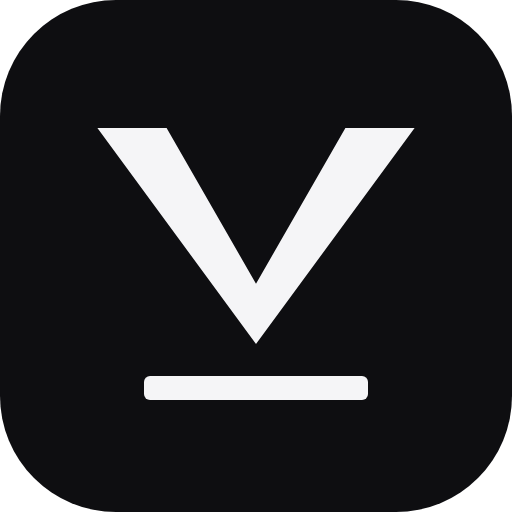
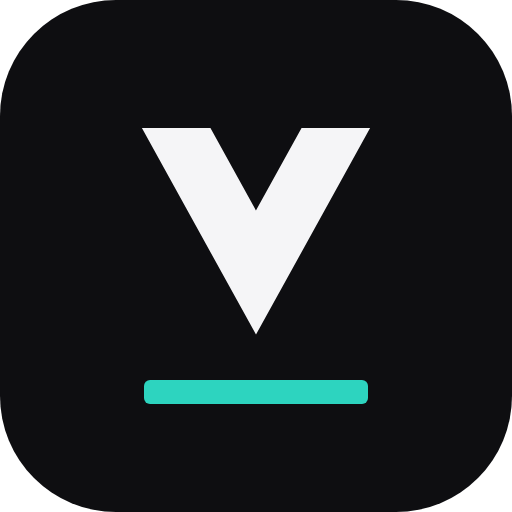
chore(app): 브랜드 심볼 V를 평행 획으로 고치고 두 색 구성으로 복원
V의 안팎 변이 평행하도록 폴리라인 마이터 스트로크 방식으로 다시 그리고,
기준선에 민트 강조색을 되살려 판 · V · 기준선의 두 색 구성으로 맞춘다.

Claude-Session: https://claude.ai/code/session_01BxGENrAkxYRvUXw4eZE3Ww

Changed region(s): [[0.1875, 0.25, 0.8125, 0.6875], [0.2812, 0.7188, 0.7188, 0.8125]]

diff --git a/packages/app/resources/brand/README.md b/packages/app/resources/brand/README.md
@@ -1,6 +1,6 @@
 # BIVE 브랜드 에셋
 
-방향: 신세대 개발 도구(Cursor · Zed · Warp · Linear) 계열. 평면 단색 판 위에 흰색 기하 심볼 하나. 그라데이션 · 테두리 · 강조색 없음.
+방향: 신세대 개발 도구(Cursor · Zed · Warp · Linear) 계열. 평면 단색 판 위에 기하 심볼 하나, 두 색 구성.
 
 | 파일 | 용도 |
 |---|---|
@@ -9,8 +9,8 @@
 | `logo.svg` | 가로형 로고 (판 없는 심볼 + 워드마크, 밝은 배경용). 글자는 패스로 변환되어 폰트 설치 불필요 |
 | `logo.png` | 가로형 로고 렌더 (2배 해상도, 투명 배경) |
 
-- 심볼: V는 Verification이자 BIVE의 글자, 아래 가로 막대는 Baseline. 두 요소뿐이라 16px과 단색 틴트에서도 성립한다.
-- 색: 판 `#0E0E11`, 심볼 `#F5F5F7`, 밝은 배경 로고 `#0A0A0D`. 두 색뿐이다.
+- 심볼: V는 Verification이자 BIVE의 글자, 아래 가로 막대는 Baseline. V는 폴리라인을 마이터 조인으로 스트로크해 안팎 변이 평행하고 위쪽만 수평으로 잘랐다.
+- 색: 판 `#0E0E11`, V `#F5F5F7`, 기준선 민트 `#2DD4BF`, 밝은 배경 로고 V `#0A0A0D`.
 - 어두운 배경용 로고는 `logo.svg`의 `#0A0A0D`를 `#F5F5F7`로 바꾸면 된다.
 - macOS 26 Icon Composer용으로는 판 레이어와 심볼 레이어를 분리해 넣는다. 심볼은 단색이므로 틴트 변형에 그대로 쓸 수 있다.
 - 워드마크 서체: Inter Display SemiBold (패스 변환본).
